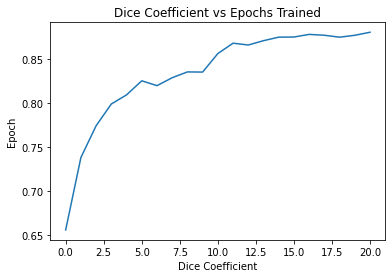
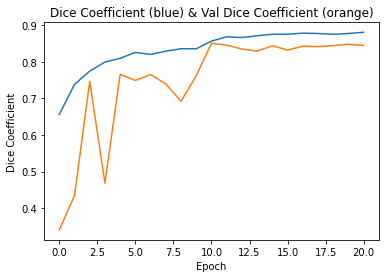
Updated README, Cleaned up Unet module

diff --git a/recognition/s4642427-UNET/modules.py b/recognition/s4642427-UNET/modules.py
@@ -7,84 +7,50 @@ from keras.layers.pooling import MaxPooling2D
 import tensorflow as tf
 
 
-def unet():
-    conv_args = {
-    "activation": "relu",
-    "kernel_initializer": "he_normal",
-    "padding": "same",
-    }
-
+def Unet():
+  
     inputs = Input((256,256,3))
 
-    skip_1, skip_2, skip_3, skip_4, x = contraction(inputs, conv_args)
-    x = bottleneck(x, conv_args)
-    x = expansion(x, skip_1, skip_2, skip_3, skip_4, conv_args)
-    output = output_layer(x)
+    """ Encoder """
+    s1, x1 = contraction(inputs, 64)
+    s2, x2 = contraction(x1, 128)
+    s3, x3 = contraction(x2, 256)
+    s4, x4 = contraction(x3, 512)
 
-    model = tf.keras.Model(inputs=inputs, outputs=output)
+    """ Bridge """
+    x5 = conv_block(x4, 1024)
 
+    """ Decoder """
+    x6 = expansion(x5, s4, 512)
+    x7 = expansion(x6, s3, 256)
+    x8 = expansion(x7, s2, 128)
+    x9 = expansion(x8, s1, 64)
+
+    """ Outputs """
+    outputs = Conv2D(1, 1, padding="same", activation="sigmoid")(x9)
+
+    """ Model """
+    model = Model(inputs, outputs)
     return model
 
+def conv_block(inputs, num_filters):
+    x = Conv2D(num_filters, 3, padding="same")(inputs)
+    x = BatchNormalization()(x)
+    x = Activation("relu")(x)
 
-def contraction(input, conv_args):
-    x = Conv2D(32, 3, **conv_args)(input)
-    x = Conv2D(32, 3, **conv_args)(x)
-    x = BatchNormalization()(x, training=False)
-    skip_1 = x
-    x = MaxPool2D(pool_size = (2,2))(x)
-    x = tf.keras.layers.Dropout(0.3)(x)
-    
+    x = Conv2D(num_filters, 3, padding="same")(x)
+    x = BatchNormalization()(x)
+    x = Activation("relu")(x)
 
-    x = Conv2D(64, 3, **conv_args)(x)
-    x = Conv2D(64, 3, **conv_args)(x)
-    x = BatchNormalization()(x, training=False)
-    skip_2 = x
-    x = MaxPool2D(pool_size = (2,2))(x)
-    x = tf.keras.layers.Dropout(0.3)(x)
+    return x
 
-    x = Conv2D(128, 3, **conv_args)(x)
-    x = Conv2D(128, 3, **conv_args)(x)
-    x = BatchNormalization()(x, training=False)
-    skip_3 = x
-    x = MaxPool2D(pool_size = (2,2))(x)
-    x = tf.keras.layers.Dropout(0.3)(x)
+def contraction(inputs, num_filters):
+    x = conv_block(inputs, num_filters)
+    p = MaxPool2D((2, 2))(x)
+    return x, p
 
-    x = Conv2D(256, 3, **conv_args)(x)
-    x = Conv2D(256, 3, **conv_args)(x)
-    x = BatchNormalization()(x, training=False)
-    skip_4 = x
-    x = MaxPool2D(pool_size = (2,2))(x)
-    output = tf.keras.layers.Dropout(0.3)(x)
-
-    return skip_1, skip_2, skip_3, skip_4, output
-
-def bottleneck(input, conv_args):
-    x = Conv2D(512, 3, **conv_args)(input)
-    output = Conv2D(512, 3, **conv_args)(x)
-    return output
-
-def expansion(input, skip_1, skip_2, skip_3, skip_4, conv_args):
-    x = Conv2DTranspose(256, (3,3), strides=(2,2), padding='same')(input)
-    x = concatenate([x, skip_4], axis=3)
-    x = Conv2D(256, 3, **conv_args)(x)
-    x = Conv2D(256, 3, **conv_args)(x)
-
-    x = Conv2DTranspose(128, (3,3), strides=(2,2), padding='same')(x)
-    x = concatenate([x, skip_3], axis=3)
-    x = Conv2D(128, 3, **conv_args)(x)
-    x = Conv2D(128, 3, **conv_args)(x)
-
-    x = Conv2DTranspose(64, (3,3), strides=(2,2), padding='same')(x)
-    x = concatenate([x, skip_2], axis=3)
-    x = Conv2D(64, 3, **conv_args)(x)
-    x = Conv2D(64, 3, **conv_args)(x)
-
-    x = Conv2DTranspose(32, (3,3), strides=(2,2), padding='same')(x)
-    x = concatenate([x, skip_1], axis=3)
-    x = Conv2D(32, 3, **conv_args)(x)
-    output = Conv2D(32, 3, **conv_args)(x)
-    return output
-
-def output_layer(input):
-    output = Conv2D(1, 1, padding="same", activation = "sigmoid")(input)
-    return output
+def expansion(inputs, skip_features, num_filters):
+    x = Conv2DTranspose(num_filters, (2, 2), strides=2, padding="same")(inputs)
+    x = Concatenate()([x, skip_features])
+    x = conv_block(x, num_filters)
+    return x

diff --git a/recognition/s4642427-UNET/train.py b/recognition/s4642427-UNET/train.py
@@ -5,31 +5,24 @@ from keras.callbacks import EarlyStopping, ModelCheckpoint, ReduceLROnPlateau
 from keras.optimizers import Adam
 
 def diceCoefficient(y_true, y_pred):
-        """   
-            DSC Tensorflow implementation sourced from Medium: 
-            [https://medium.com/@karan_jakhar/100-days-of-code-day-7-84e4918cb72c]
-            [25/10/2019]
-        """
-        
-        y_true_f = K.flatten(y_true)
-        y_pred_f = K.flatten(y_pred)
-        
-        # Get the pixel intersection of the two images 
-        intersection = K.sum(y_true_f * y_pred_f)
-        
-        # DSC = (2 * intersection) / total_pixels
-        diceCoeff = (2. * intersection + 1.) / K.sum(y_true_f) + K.sum(y_pred_f) + 1.)
-        
-        return diceCoeff
-        
-        
+
+    y_true_f = tf.keras.backend.flatten(y_true)
+    y_pred_f = tf.keras.backend.flatten(y_pred)
+    
+    # Get the pixel intersection of the two images 
+    intersection = tf.keras.backend.sum(y_true_f * y_pred_f)
+    
+    # DSC = (2 * intersection) / total_pixels
+    diceCoeff = (2. * intersection + 1.) / (tf.keras.backend.sum(y_true_f) + tf.keras.backend.sum(y_pred_f) + 1.)
+    
+    return diceCoeff
+    
+    
 def diceLoss(y_true, y_pred):
-    """
-        Defines the dice coefficient loss function, ie 1 - Dice Coefficient.
-    """
+  
     return 1 - diceCoefficient(y_true, y_pred)
 
-#TODO need to graph the dice Loss and metric
+
 def train(dset_path, mask_path):
     DL = Dataloader(dset_path, mask_path)
     X_train, Y_train, X_test, Y_test, X_val, Y_val = DL.get_XY_split()

diff --git a/recognition/s4642427-UNET/predict.py b/recognition/s4642427-UNET/predict.py
@@ -11,15 +11,18 @@ def predict(model, results, X_test, Y_test):
     print("Dice Coefficient", eval[2])
 
     plt.plot(results.history['loss'])
-    plt.title("Model Loss vs Epochs Trained")
-    plt.xlabel('Loss')
-    plt.ylabel('Epoch')
+    plt.plot(results.history['val_loss'])
+
+    plt.title("Loss (Blue) & Val_loss (Orange)")
+    plt.xlabel('Epoch')
+    plt.ylabel('Loss')
     plt.show()
 
     plt.plot(results.history['diceCoefficient'])
-    plt.title("Dice Coefficient vs Epochs Trained")
-    plt.xlabel('Dice Coefficient')
-    plt.ylabel('Epoch')
+    plt.plot(results.history['val_diceCoefficient'])
+    plt.title("Dice Coefficient (blue) & Val Dice Coefficient (orange)")
+    plt.xlabel('Epoch')
+    plt.ylabel('Dice Coefficient')
     plt.show()
 
     # Plot the original image, ground truth and result from the network.

diff --git a/recognition/s4642427-UNET/README.MD b/recognition/s4642427-UNET/README.MD
@@ -3,12 +3,29 @@
 - how it works in a paragraph
 - a figure/visualisation
 #- list any dependencies required, including versions
-- address reproduciblility of results, if applicable
 - provide example inputs, outputs and plots of your algorithm
 - Describe any specific pre-processing you have used with references
 - Justify your training, validation and testing splits of the data
 
 # Image Segmentation on ISIC Dataset using Improved U-NET Model
+---
+
+## What is a UNET
+---
+
+## How does it work
+---
+
+
+
+![unet](images/unet.png)
+
+## Results
+---
+
+![loss](images/loss.png)
+![Dice Crossentropy](images/dice.png)
+
 ---
 
 ![1](images/1.png)
@@ -21,8 +38,9 @@ Epoch 25: val_loss improved from 0.20673 to 0.19117, saving model to model-tgs-s
 100/100 [==============================] - 86s 865ms/step - loss: 0.1362 - accuracy: 0.9483 - diceCoefficient: 0.8638 - val_loss: 0.1912 - val_accuracy: 0.9457 - val_diceCoefficient: 0.8088 - lr: 1.0000e-04
 Epoch 26/30
 
-Dependencies:
-Python 3.7.13
-Keras 2.4.3
-Tensorflow 2.3.0
-Matplotlib 3.5.2
+### Dependencies:
+
+    Python 3.7.13
+    Keras 2.4.3
+    Tensorflow 2.3.0
+    Matplotlib 3.5.2
